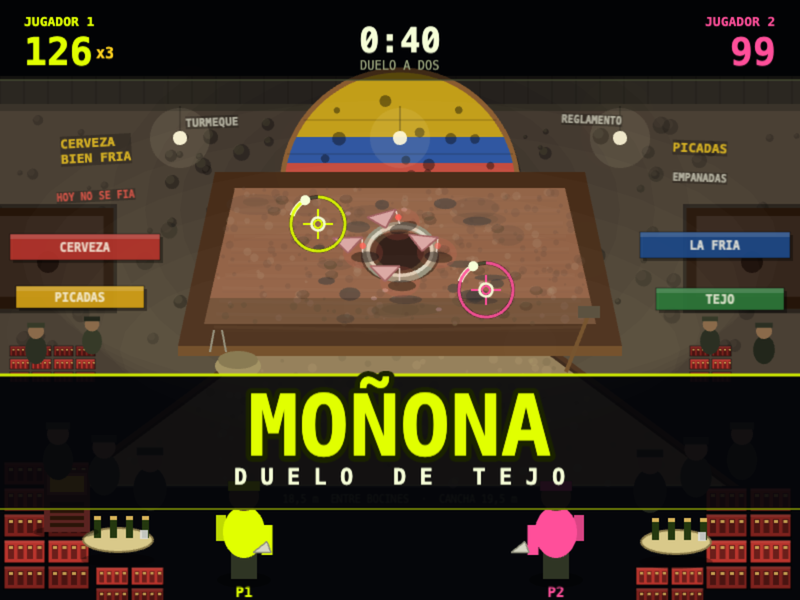
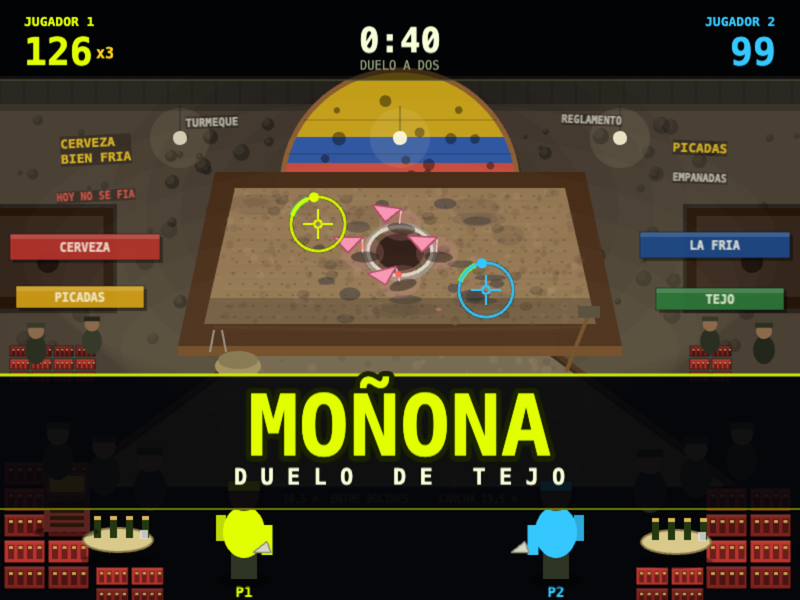
fix(materials): correct clay, mechas and palette against measurement (BRO-2163)
A third research pass pixel-sampled real court photographs and read the
Fedetejo rulebook directly. Three corrections, plus one measurement bug of
my own that invalidated numbers I had already reported.

MECHAS ARE VIVID PINK, not the muted salmon shipped in v3. The reglamento
specifies paper "rojo fosforescente o blanco"; the fluorescent variant
measures #F792B4 and is the single strongest colour accent on a real
court. Shipped at that value, with the fold highlight and halo to match.

P2 MOVES OFF MAGENTA to flag blue. With the packets now correctly hot
pink, a magenta player crosshair competed with them; blue separates
cleanly from both the pink packets and P1's lime against warm clay.

CLAY SET TO THE MEASURED MEDIAN. Six venues sampled give hue 25 deg,
saturation 29%, lightness 43% — base #8B6F4A. Hue is tightly constrained
(16-41 deg) and saturation always low; it is value that swings with
moisture and venue, never hue. That change collided the clay with the lane
in value, so the lane is now pushed into shadow, which also focuses the lit
cajón as the target.

Added "greda picada": the canchero pricks the whole face on a regular
spacing and waters it through the holes so it stays soft enough to catch a
tejo. The texture is visible in court photographs and is distinct from the
tejo craters already rendered. Spent paper scraps are now mostly charred
rather than fresh pink.

Bocín seated flush. The rulebook defines it as a ~30 cm hollow steel
[…]

diff --git a/game.js b/game.js
@@ -79,7 +79,7 @@ const RECOVER_MS = 250;
 const COL = {
   night: 0x0a0c07,
   backdrop: 0x05060a,
-  clay: 0x8a5a3e,
+  clay: 0x8b6f4a,
   clayDark: 0x5c4130,
   clayLight: 0xa8886a,
   clayWet: 0x40312a,
@@ -89,7 +89,7 @@ const COL = {
   metalDark: 0x8d8d7a,
   hole: 0x24110a,
   p1: 0xe1ff00,
-  p2: 0xff4f9a,
+  p2: 0x35c8ff,
   white: 0xf7ffd8,
   slate: 0x9aa47c,
   dim: 0x4a5136,
@@ -105,10 +105,12 @@ const COL = {
   board: 0x6b4523,
   boardLip: 0x8a5c30,
   // Traditional canchas run on sand or bare dirt.
-  sand: 0x8a7550,
-  sandDark: 0x6a5a3c,
-  sandLit: 0xa89066,
-  mecha: 0xd6a4a5,
+  sand: 0x6b5f47,
+  sandDark: 0x51472f,
+  sandLit: 0x8a7a58,
+  mecha: 0xf792b4,
+  mechaFold: 0xffd9e6,
+  ash: 0x5a4a3c,
   scorch: 0x24242e,
   crate: 0xb8342c,
   crateDark: 0x7d221d,
@@ -116,7 +118,7 @@ const COL = {
 
 const CSS = {
   p1: '#e1ff00',
-  p2: '#ff4f9a',
+  p2: '#35c8ff',
   white: '#f7ffd8',
   slate: '#9aa47c',
   dim: '#5c6442',
@@ -828,6 +830,20 @@ function buildCajon(scene) {
     g.lineBetween(CLAY.cx - hw, y + 4, CLAY.cx + hw, y + 4);
   }
 
+  // Greda picada. The canchero pricks the whole face on a regular spacing and
+  // waters it through the holes so it stays soft enough to catch a tejo. The
+  // texture is visible in court photographs and is distinct from tejo craters.
+  for (let gy = CLAY.topY + 8; gy < CLAY.botY - 6; gy += 11) {
+    const hw = clayHalfW(gy) - 12;
+    const jitter = pseudo(gy * 0.7) * 8;
+    for (let gx = CLAY.cx - hw + jitter; gx < CLAY.cx + hw; gx += 13) {
+      g.fillStyle(0x000000, 0.16);
+      g.fillEllipse(gx, gy, 3.4, 3.4 * FORESHORTEN);
+      g.fillStyle(COL.clayLight, 0.1);
+      g.fillEllipse(gx, gy - 1.4, 3, 2 * FORESHORTEN);
+    }
+  }
+
   // Damp patches — the face is watered to keep it catching the tejo.
   for (let i = 0; i < 14; i++) {
     const y = CLAY.topY + 14 + pseudo(i * 11.3) * (CLAY.botY - CLAY.topY - 26);
@@ -857,7 +873,7 @@ function buildCajon(scene) {
     const y3 = BOCIN.y + Math.sin(a3) * r3 * FORESHORTEN;
     if (y3 < CLAY.topY + 6 || y3 > CLAY.botY - 6) continue;
     if (Math.abs(x3 - CLAY.cx) > clayHalfW(y3) - 10) continue;
-    g.fillStyle(COL.mecha, 0.5);
+    g.fillStyle(i % 3 === 0 ? COL.mecha : COL.ash, 0.55);
     g.fillEllipse(x3, y3, 6, 4);
   }
 
@@ -896,11 +912,11 @@ function buildCajon(scene) {
   // Bocín: iron ring seated half-buried, bore in shadow.
   const b = scene.add.graphics();
   b.setDepth(4);
-  b.fillStyle(0x000000, 0.5);
-  b.fillEllipse(BOCIN.x, BOCIN.y + 5, BOCIN.ring * 2.3, BOCIN.ring * 1.5);
+  b.fillStyle(0x000000, 0.34);
+  b.fillEllipse(BOCIN.x, BOCIN.y + 3, BOCIN.ring * 2.2, BOCIN.ring * 1.45);
   b.fillStyle(COL.hole, 1);
   b.fillEllipse(BOCIN.x, BOCIN.y, BOCIN.hole * 2, BOCIN.hole * 1.55);
-  b.lineStyle(8, COL.metalDark, 1);
+  b.lineStyle(6, COL.metalDark, 1);
   b.strokeEllipse(BOCIN.x, BOCIN.y, BOCIN.ring * 2, BOCIN.ring * 1.55);
   b.lineStyle(3.5, COL.metal, 1);
   b.strokeEllipse(BOCIN.x, BOCIN.y - 1, BOCIN.ring * 2 - 4, BOCIN.ring * 1.55 - 4);
@@ -1517,12 +1533,12 @@ function makeMecha(scene, slot) {
   const c = scene.add.container(x, y);
   // Folded paper packet: an equilateral triangle 6 cm a side, squashed to lie flat
   // on the tilted clay, with a shadow so it sits ON the surface rather than over it.
-  const halo = scene.add.ellipse(0, 1, 40, 40 * FORESHORTEN, COL.red, 0.14);
+  const halo = scene.add.ellipse(0, 1, 42, 42 * FORESHORTEN, COL.mecha, 0.18);
   const shadow = scene.add.ellipse(2, 5, 28, 11, 0x000000, 0.45);
   const paper = scene.add.triangle(0, 0, 0, 11, 15, -9, -15, -9, COL.mecha);
-  paper.setStrokeStyle(2, 0x9c5a5c);
+  paper.setStrokeStyle(2, 0xb03f66);
   paper.setScale(1, FORESHORTEN);
-  const fold = scene.add.line(0, 0, 0, 9, 0, -8, 0xf2ddd2).setLineWidth(1.4).setAlpha(0.9);
+  const fold = scene.add.line(0, 0, 0, 9, 0, -8, COL.mechaFold).setLineWidth(1.4).setAlpha(0.9);
   fold.setScale(1, FORESHORTEN);
   const fuse = scene.add.circle(0, -8 * FORESHORTEN, 3.2, COL.red);
   c.add([halo, shadow, paper, fold, fuse]);
